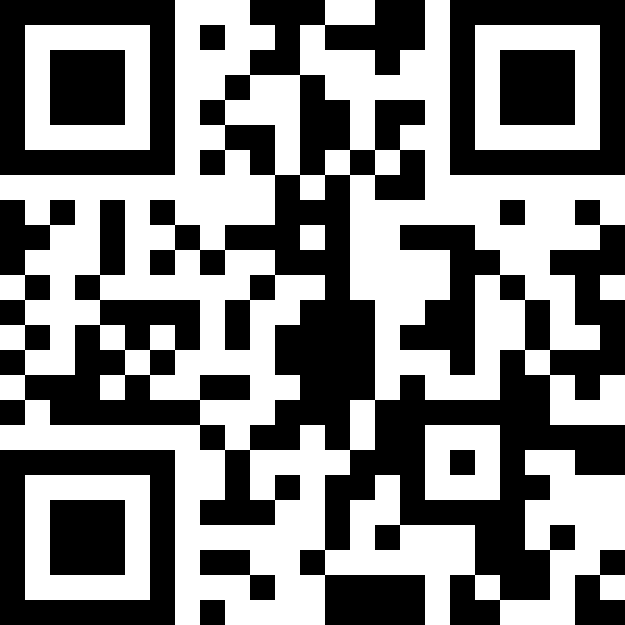
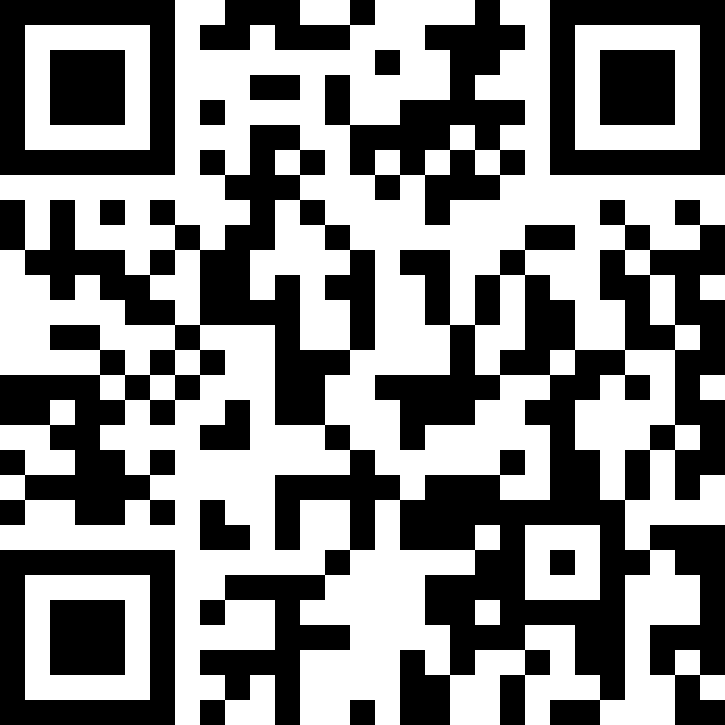
qr url solucionado

diff --git a/core/src/main/kotlin/es/unizar/urlshortener/core/usecases/QRGeneratorUseCase.kt b/core/src/main/kotlin/es/unizar/urlshortener/core/usecases/QRGeneratorUseCase.kt
@@ -22,9 +22,13 @@ class QRGeneratorUseCaseImpl(
 ) : QRGeneratorUseCase {
     override fun create(data: String, qrdata: String): QRCode {
         println("VAMOS A ENVIAR ???? "+qrdata)
-
-
-        var qrc = qrService.qr("http://localhost/" + data)
+        var port = 8080
+        var dosPts = ":"
+        var dosPtsS = dosPts.toString()
+        var guion = "-"
+        var guionS = guion.toString()
+        var portS = port.toString()
+        var qrc = qrService.qr("http://localhost"+dosPtsS+portS+"/tiny" +guion+ data)
        // var hashqr = hashService.hasUrl("http://localhost/" + data)
         var qrCode = qrCodeRepository.findByKey(qrdata)
 

diff --git a/delivery/src/main/kotlin/es/unizar/urlshortener/infrastructure/delivery/UrlShortenerController.kt b/delivery/src/main/kotlin/es/unizar/urlshortener/infrastructure/delivery/UrlShortenerController.kt
@@ -147,7 +147,7 @@ class UrlShortenerControllerImpl(
                 uriqr = linkTo<UrlShortenerControllerImpl> { redirectQr(qrhash, request) }.toUri()
                 h.set("qr", uriqr.toString());
                 //METO TAREA CREAR QR EN LA COLA
-
+                println("tiny-"+it.hash)
                 val tareaQR = TareaCrearQR(it.hash,qrhash, qrGeneratorUseCase)
                 colaQR.put(tareaQR)
 

diff --git a/core/src/main/kotlin/es/unizar/urlshortener/core/usecases/CreateQRURLUseCase.kt b/core/src/main/kotlin/es/unizar/urlshortener/core/usecases/CreateQRURLUseCase.kt
@@ -20,6 +20,7 @@ class CreateQRURLUseCaseImpl(
 ) : CreateQRURLUseCase {
     override fun create(data: String): String {
        //Genero el hash y ya el thread comprueba en su caso de uso si existe o si no
-        return hashService.hasUrl("http://localhost/" + data)
+
+        return hashService.hasUrl("http://localhost/tiny-" + data)
     }
 }
